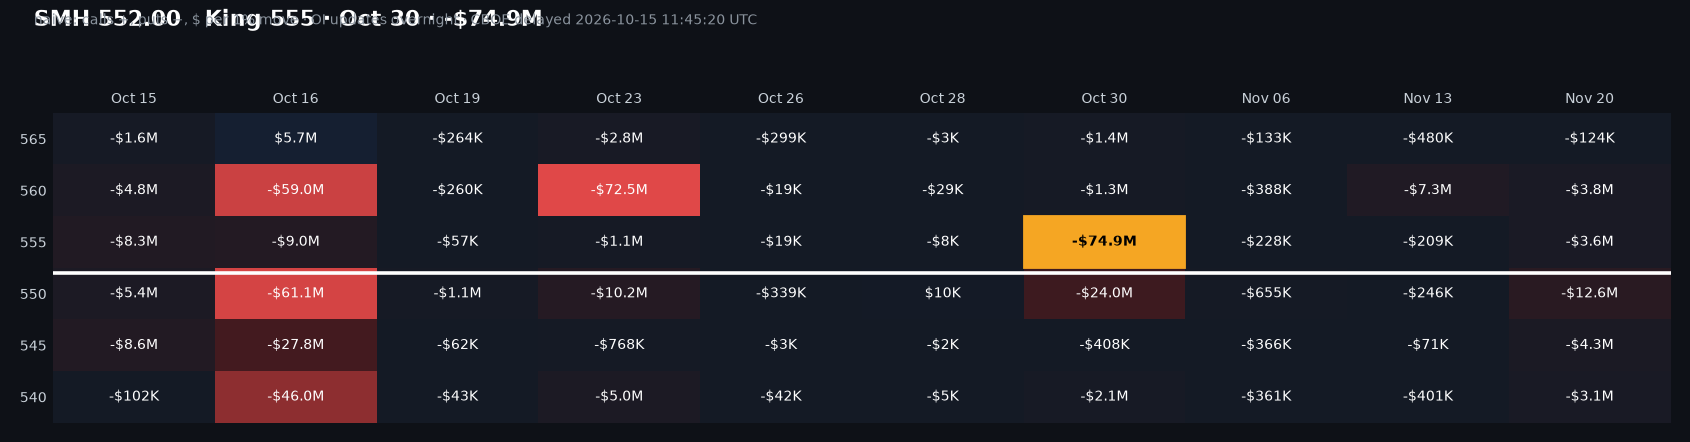
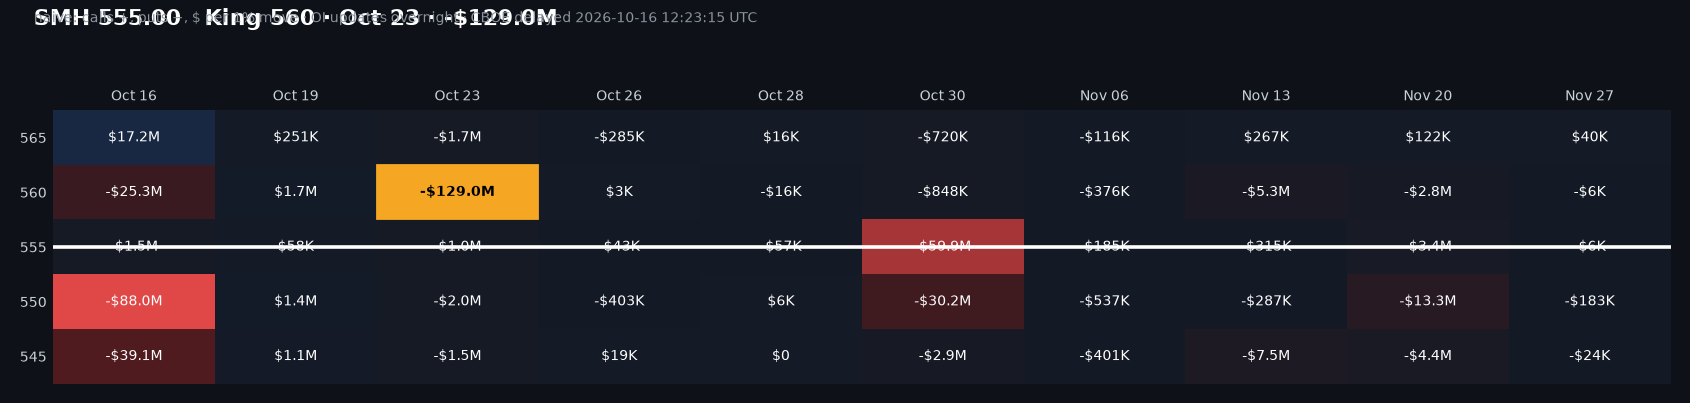
GEX 2026-10-16

diff --git a/index.html b/index.html
@@ -2,9 +2,9 @@
 <title>GEX dashboard</title><style>body{background:#0e1117;color:#c9d1d9;font:14px system-ui,sans-serif;margin:0;padding:12px;max-width:1100px;margin:auto}
 h1{font-size:20px;color:#fff}h3{color:#fff;margin:18px 0 6px}.s{overflow-x:auto}table{border-collapse:collapse;width:100%;font-size:13px}
 td,th{border-bottom:1px solid #222a36;padding:6px;text-align:left;white-space:nowrap}th{color:#8b949e}img{width:100%;border-radius:6px}small{color:#8b949e}</style></head><body>
-<h1>Dealer gamma (GEX) levels — 2026-10-15</h1><small>Run 2026-10-15T12:31:29+00:00 · free CBOE delayed quotes (~15 min) · open interest is prior-day · naive estimate (calls +, puts −). Not advice.</small>
-<h3>Key levels</h3><div class="s"><table><tr><th>Ticker</th><th>Spot</th><th>King (strike · exp · $)</th><th>Flip</th><th>Regime</th><th>Net GEX</th><th>Nearest expiry top +/− strikes</th></tr><tr><td><b>SPY</b></td><td>767.13</td><td>772 · 10-16 · -$1.2B</td><td>770.39</td><td>below flip (amplifying)</td><td>-$4.1B</td><td>10-15: +772, 773, 775 / −768, 765, 766</td></tr><tr><td><b>QQQ</b></td><td>720.01</td><td>725 · 10-16 · -$234.0M</td><td>728.96</td><td>below flip (amplifying)</td><td>-$4.6B</td><td>10-15: +735, 732, 729 / −725, 720, 730</td></tr><tr><td><b>IWM</b></td><td>271.90</td><td>272 · 10-16 · -$426.4M</td><td>–</td><td>–</td><td>-$3.3B</td><td>10-15: +272, 276, 275 / −270, 269, 268</td></tr><tr><td><b>SMH</b></td><td>552.00</td><td>555 · 10-30 · -$74.9M</td><td>–</td><td>–</td><td>-$463.2M</td><td>10-15: +– / −545, 555, 550</td></tr><tr><td><b>XLK</b></td><td>186.99</td><td>190 · 11-20 · -$3.5M</td><td>187.07</td><td>below flip (amplifying)</td><td>-$19.4M</td><td>10-16: +187, 190 / −188, 189, 186</td></tr><tr><td><b>XLE</b></td><td>67.93</td><td>68 · 10-16 · $11.9M</td><td>–</td><td>–</td><td>$66.8M</td><td>10-16: +68, 67, 69 / −–</td></tr><tr><td><b>XLF</b></td><td>54.88</td><td>54.5 · 10-16 · -$82.4M</td><td>54.82</td><td>above flip (dampening)</td><td>-$82.2M</td><td>10-15: +54, 55, 55.5 / −54.5</td></tr></table></div>
+<h1>Dealer gamma (GEX) levels — 2026-10-16</h1><small>Run 2026-10-16T12:30:50+00:00 · free CBOE delayed quotes (~15 min) · open interest is prior-day · naive estimate (calls +, puts −). Not advice.</small>
+<h3>Key levels</h3><div class="s"><table><tr><th>Ticker</th><th>Spot</th><th>King (strike · exp · $)</th><th>Flip</th><th>Regime</th><th>Net GEX</th><th>Nearest expiry top +/− strikes</th></tr><tr><td><b>SPY</b></td><td>773.08</td><td>772 · 10-16 · -$1.4B</td><td>774.09</td><td>below flip (amplifying)</td><td>-$938.9M</td><td>10-16: +775, 780, 776 / −772, 765, 768</td></tr><tr><td><b>QQQ</b></td><td>727.76</td><td>723 · 10-16 · -$459.6M</td><td>728.15</td><td>below flip (amplifying)</td><td>-$2.9B</td><td>10-16: +740, 735, 729 / −723, 722, 721</td></tr><tr><td><b>IWM</b></td><td>275.50</td><td>275 · 10-16 · -$488.0M</td><td>277.9</td><td>below flip (amplifying)</td><td>-$2.3B</td><td>10-16: +282, 281 / −275, 272, 273</td></tr><tr><td><b>SMH</b></td><td>555.00</td><td>560 · 10-23 · -$129.0M</td><td>564.57</td><td>below flip (amplifying)</td><td>-$401.2M</td><td>10-16: +565 / −550, 545, 560</td></tr><tr><td><b>XLK</b></td><td>188.75</td><td>192 · 10-16 · -$9.7M</td><td>187.33</td><td>above flip (dampening)</td><td>-$25.3M</td><td>10-16: +187, 190, 185 / −192, 189, 188</td></tr><tr><td><b>XLE</b></td><td>67.00</td><td>67 · 10-16 · $16.1M</td><td>–</td><td>–</td><td>$59.7M</td><td>10-16: +67, 66.5, 68 / −–</td></tr><tr><td><b>XLF</b></td><td>55.32</td><td>55 · 10-16 · $103.8M</td><td>55.94</td><td>below flip (amplifying)</td><td>$357K</td><td>10-16: +55, 55.5, 56.5 / −54.5, 56, 54</td></tr></table></div>
 
 <h3>SPY</h3><a href="img/SPY_gex.png"><img src="img/SPY_gex.png" alt="SPY GEX heatmap"></a><h3>QQQ</h3><a href="img/QQQ_gex.png"><img src="img/QQQ_gex.png" alt="QQQ GEX heatmap"></a><h3>IWM</h3><a href="img/IWM_gex.png"><img src="img/IWM_gex.png" alt="IWM GEX heatmap"></a><h3>SMH</h3><a href="img/SMH_gex.png"><img src="img/SMH_gex.png" alt="SMH GEX heatmap"></a><h3>XLK</h3><a href="img/XLK_gex.png"><img src="img/XLK_gex.png" alt="XLK GEX heatmap"></a><h3>XLE</h3><a href="img/XLE_gex.png"><img src="img/XLE_gex.png" alt="XLE GEX heatmap"></a><h3>XLF</h3><a href="img/XLF_gex.png"><img src="img/XLF_gex.png" alt="XLF GEX heatmap"></a>
-<h3>History</h3><div class="s"><table><tr><th>Date</th><th>Ticker</th><th>Spot</th><th>King</th><th>Flip</th><th>Prev close</th><th>Prev range</th></tr><tr><td>2026-10-15</td><td>XLK</td><td>186.99</td><td>190.0 (11-20)</td><td>187.07</td><td>190.43</td><td>189.73–194.66</td></tr><tr><td>2026-10-15</td><td>XLF</td><td>54.88</td><td>54.5 (10-16)</td><td>54.82</td><td>54.52</td><td>54.02–54.52</td></tr><tr><td>2026-10-15</td><td>XLE</td><td>67.93</td><td>68.0 (10-16)</td><td></td><td>67.63</td><td>67.12–67.72</td></tr><tr><td>2026-10-15</td><td>SPY</td><td>767.13</td><td>772.0 (10-16)</td><td>770.39</td><td>769.6</td><td>766.71–776.35</td></tr><tr><td>2026-10-15</td><td>SMH</td><td>552.0</td><td>555.0 (10-30)</td><td></td><td>564.74</td><td>563.12–580.08</td></tr><tr><td>2026-10-15</td><td>QQQ</td><td>720.01</td><td>725.0 (10-16)</td><td>728.96</td><td>728.95</td><td>726.39–740.53</td></tr><tr><td>2026-10-15</td><td>IWM</td><td>271.9</td><td>272.0 (10-16)</td><td></td><td>271.37</td><td>270.35–274.46</td></tr><tr><td>2026-10-14</td><td>XLK</td><td>195.86</td><td>195.0 (10-16)</td><td>195.82</td><td>196.28</td><td>193.92–196.34</td></tr><tr><td>2026-10-14</td><td>XLF</td><td>54.8</td><td>54.5 (10-16)</td><td>54.8</td><td>54.82</td><td>54.64–55.65</td></tr><tr><td>2026-10-14</td><td>XLE</td><td>67.59</td><td>68.0 (10-21)</td><td></td><td>67.2</td><td>66.29–67.25</td></tr><tr><td>2026-10-14</td><td>SPY</td><td>779.96</td><td>785.0 (10-16)</td><td>777.62</td><td>778.01</td><td>775.95–778.75</td></tr><tr><td>2026-10-14</td><td>SMH</td><td>583.2</td><td>590.0 (10-23)</td><td></td><td>588.12</td><td>574.75–588.68</td></tr><tr><td>2026-10-14</td><td>QQQ</td><td>743.56</td><td>760.0 (10-16)</td><td>746.69</td><td>743.57</td><td>738.83–744.2</td></tr><tr><td>2026-10-14</td><td>IWM</td><td>277.18</td><td>275.0 (10-16)</td><td>281.46</td><td>276.7</td><td>275.47–278.7</td></tr><tr><td>2026-10-13</td><td>XLK</td><td>194.22</td><td>195.0 (10-16)</td><td>194.2</td><td>196.36</td><td>195.82–198.18</td></tr><tr><td>2026-10-13</td><td>XLF</td><td>55.45</td><td>54.5 (10-16)</td><td>55.65</td><td>55.05</td><td>54.83–55.17</td></tr><tr><td>2026-10-13</td><td>XLE</td><td>66.5114</td><td>67.0 (10-16)</td><td></td><td>66.01</td><td>65.67–66.42</td></tr><tr><td>2026-10-13</td><td>SPY</td><td>777.26</td><td>785.0 (10-16)</td><td>777.53</td><td>778.1</td><td>777.05–779.4</td></tr><tr><td>2026-10-13</td><td>SMH</td><td>578.9</td><td>590.0 (10-23)</td><td>565.04</td><td>590.99</td><td>589.22–598.45</td></tr><tr><td>2026-10-13</td><td>QQQ</td><td>740.07</td><td>750.0 (10-16)</td><td>744.0</td><td>746.04</td><td>744.85–749.79</td></tr><tr><td>2026-10-13</td><td>IWM</td><td>278.0869</td><td>275.0 (10-16)</td><td>282.0</td><td>277.9</td><td>277.79–279.14</td></tr></table></div>
+<h3>History</h3><div class="s"><table><tr><th>Date</th><th>Ticker</th><th>Spot</th><th>King</th><th>Flip</th><th>Prev close</th><th>Prev range</th></tr><tr><td>2026-10-16</td><td>XLK</td><td>188.75</td><td>192.0 (10-16)</td><td>187.33</td><td>189.19</td><td>184.84–189.51</td></tr><tr><td>2026-10-16</td><td>XLF</td><td>55.32</td><td>55.0 (10-16)</td><td>55.94</td><td>55.27</td><td>54.59–55.37</td></tr><tr><td>2026-10-16</td><td>XLE</td><td>67.0</td><td>67.0 (10-16)</td><td></td><td>66.56</td><td>66.17–67.9</td></tr><tr><td>2026-10-16</td><td>SPY</td><td>773.08</td><td>772.0 (10-16)</td><td>774.09</td><td>771.79</td><td>764.43–772.87</td></tr><tr><td>2026-10-16</td><td>SMH</td><td>555.0</td><td>560.0 (10-23)</td><td>564.57</td><td>558.84</td><td>540.59–560.63</td></tr><tr><td>2026-10-16</td><td>QQQ</td><td>727.76</td><td>723.0 (10-16)</td><td>728.15</td><td>728.0</td><td>715.44–729.43</td></tr><tr><td>2026-10-16</td><td>IWM</td><td>275.5</td><td>275.0 (10-16)</td><td>277.9</td><td>275.08</td><td>270.85–275.19</td></tr><tr><td>2026-10-15</td><td>XLK</td><td>186.99</td><td>190.0 (11-20)</td><td>187.07</td><td>190.43</td><td>189.73–194.66</td></tr><tr><td>2026-10-15</td><td>XLF</td><td>54.88</td><td>54.5 (10-16)</td><td>54.82</td><td>54.52</td><td>54.02–54.52</td></tr><tr><td>2026-10-15</td><td>XLE</td><td>67.93</td><td>68.0 (10-16)</td><td></td><td>67.63</td><td>67.12–67.72</td></tr><tr><td>2026-10-15</td><td>SPY</td><td>767.13</td><td>772.0 (10-16)</td><td>770.39</td><td>769.6</td><td>766.71–776.35</td></tr><tr><td>2026-10-15</td><td>SMH</td><td>552.0</td><td>555.0 (10-30)</td><td></td><td>564.74</td><td>563.12–580.08</td></tr><tr><td>2026-10-15</td><td>QQQ</td><td>720.01</td><td>725.0 (10-16)</td><td>728.96</td><td>728.95</td><td>726.39–740.53</td></tr><tr><td>2026-10-15</td><td>IWM</td><td>271.9</td><td>272.0 (10-16)</td><td></td><td>271.37</td><td>270.35–274.46</td></tr><tr><td>2026-10-14</td><td>XLK</td><td>195.86</td><td>195.0 (10-16)</td><td>195.82</td><td>196.28</td><td>193.92–196.34</td></tr><tr><td>2026-10-14</td><td>XLF</td><td>54.8</td><td>54.5 (10-16)</td><td>54.8</td><td>54.82</td><td>54.64–55.65</td></tr><tr><td>2026-10-14</td><td>XLE</td><td>67.59</td><td>68.0 (10-21)</td><td></td><td>67.2</td><td>66.29–67.25</td></tr><tr><td>2026-10-14</td><td>SPY</td><td>779.96</td><td>785.0 (10-16)</td><td>777.62</td><td>778.01</td><td>775.95–778.75</td></tr><tr><td>2026-10-14</td><td>SMH</td><td>583.2</td><td>590.0 (10-23)</td><td></td><td>588.12</td><td>574.75–588.68</td></tr><tr><td>2026-10-14</td><td>QQQ</td><td>743.56</td><td>760.0 (10-16)</td><td>746.69</td><td>743.57</td><td>738.83–744.2</td></tr><tr><td>2026-10-14</td><td>IWM</td><td>277.18</td><td>275.0 (10-16)</td><td>281.46</td><td>276.7</td><td>275.47–278.7</td></tr><tr><td>2026-10-13</td><td>XLK</td><td>194.22</td><td>195.0 (10-16)</td><td>194.2</td><td>196.36</td><td>195.82–198.18</td></tr><tr><td>2026-10-13</td><td>XLF</td><td>55.45</td><td>54.5 (10-16)</td><td>55.65</td><td>55.05</td><td>54.83–55.17</td></tr><tr><td>2026-10-13</td><td>XLE</td><td>66.5114</td><td>67.0 (10-16)</td><td></td><td>66.01</td><td>65.67–66.42</td></tr><tr><td>2026-10-13</td><td>SPY</td><td>777.26</td><td>785.0 (10-16)</td><td>777.53</td><td>778.1</td><td>777.05–779.4</td></tr><tr><td>2026-10-13</td><td>SMH</td><td>578.9</td><td>590.0 (10-23)</td><td>565.04</td><td>590.99</td><td>589.22–598.45</td></tr><tr><td>2026-10-13</td><td>QQQ</td><td>740.07</td><td>750.0 (10-16)</td><td>744.0</td><td>746.04</td><td>744.85–749.79</td></tr><tr><td>2026-10-13</td><td>IWM</td><td>278.0869</td><td>275.0 (10-16)</td><td>282.0</td><td>277.9</td><td>277.79–279.14</td></tr></table></div>
 </body></html>
